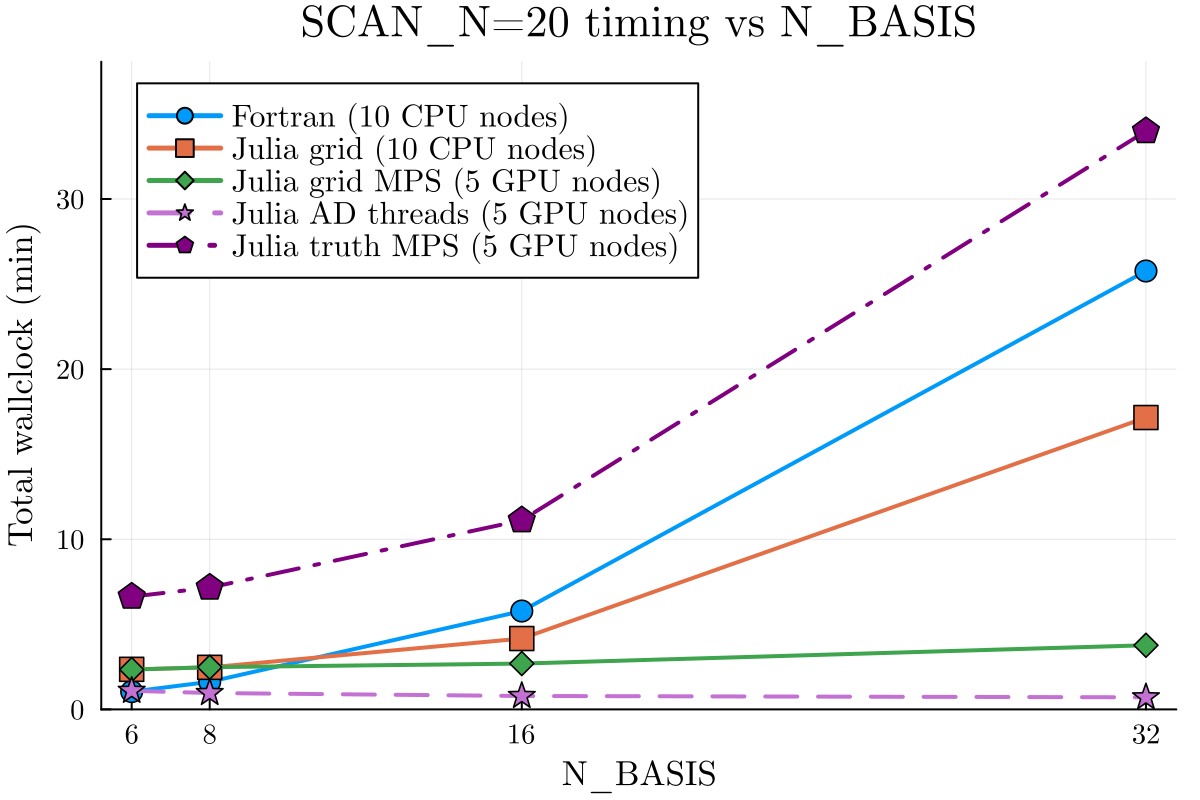
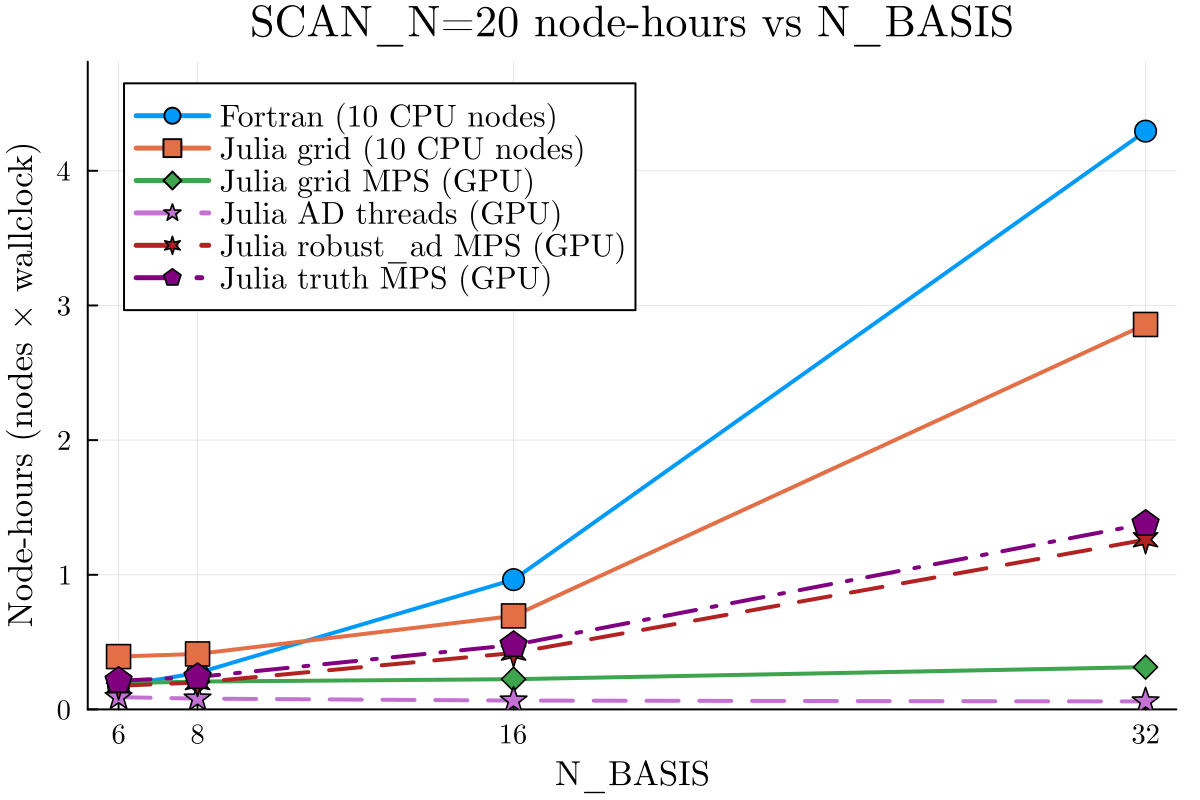
docs: switch README timing figure to node-hours (adds robust_ad series)
Replace the wallclock-minutes line plot with the node-hours-vs-N_BASIS
version, which normalizes by node count and includes the robust_ad
production solver. Refresh docs/plots/scan20_timing.csv, add a short
node-hours explainer, and bump the image cache-buster ?v=4 -> ?v=5.

diff --git a/README.md b/README.md
@@ -120,7 +120,14 @@ are compared, each on its fastest parallel layout:
   `robust_ad` for production scans and `truth` (on an **MPS team**) for validation. See
   [`docs/AD_SOLVERS_AND_SEARCH_BOUNDS.md`](docs/AD_SOLVERS_AND_SEARCH_BOUNDS.md).
 
-![Wallclock vs N_BASIS](docs/plots/scan20_timing_lines.png?v=4)
+![Node-hours vs N_BASIS](docs/plots/scan20_timing_lines.png?v=5)
+
+The plot reports each solver's **cost in node-hours** (nodes × wallclock), so runs
+on different node counts compare fairly, and now includes the **`robust_ad`** series
+(the production width-extended solver). At `N_BASIS=32` the GPU paths stay cheap —
+`ad` threads ≈0.06, `grid` MPS ≈0.3, `robust_ad` ≈1.3, `truth` ≈1.4 node-hours —
+versus ≈2.9 (Julia CPU grid) and ≈4.3 (Fortran). The per-backend tables below break
+this down in raw wallclock seconds.
 
 **Grid solver** — Fortran CPU (10 nodes) vs Julia CPU (10 nodes,
 SlurmClusterManager) vs Julia GPU (5 A100 nodes, **MPS team**):